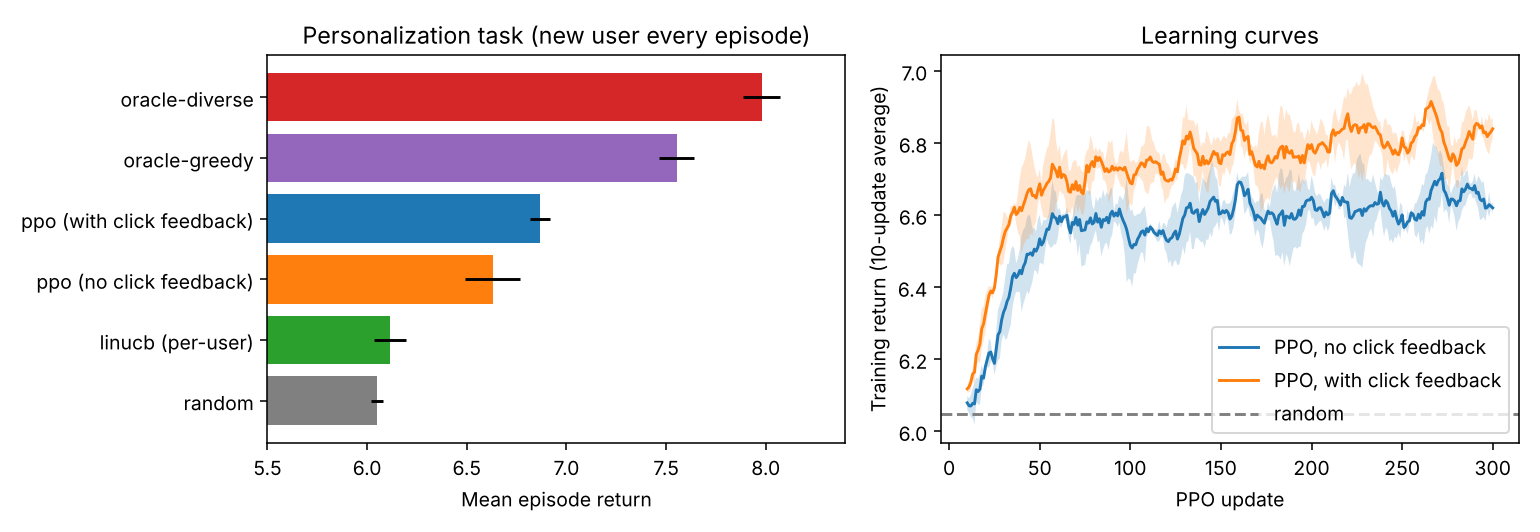
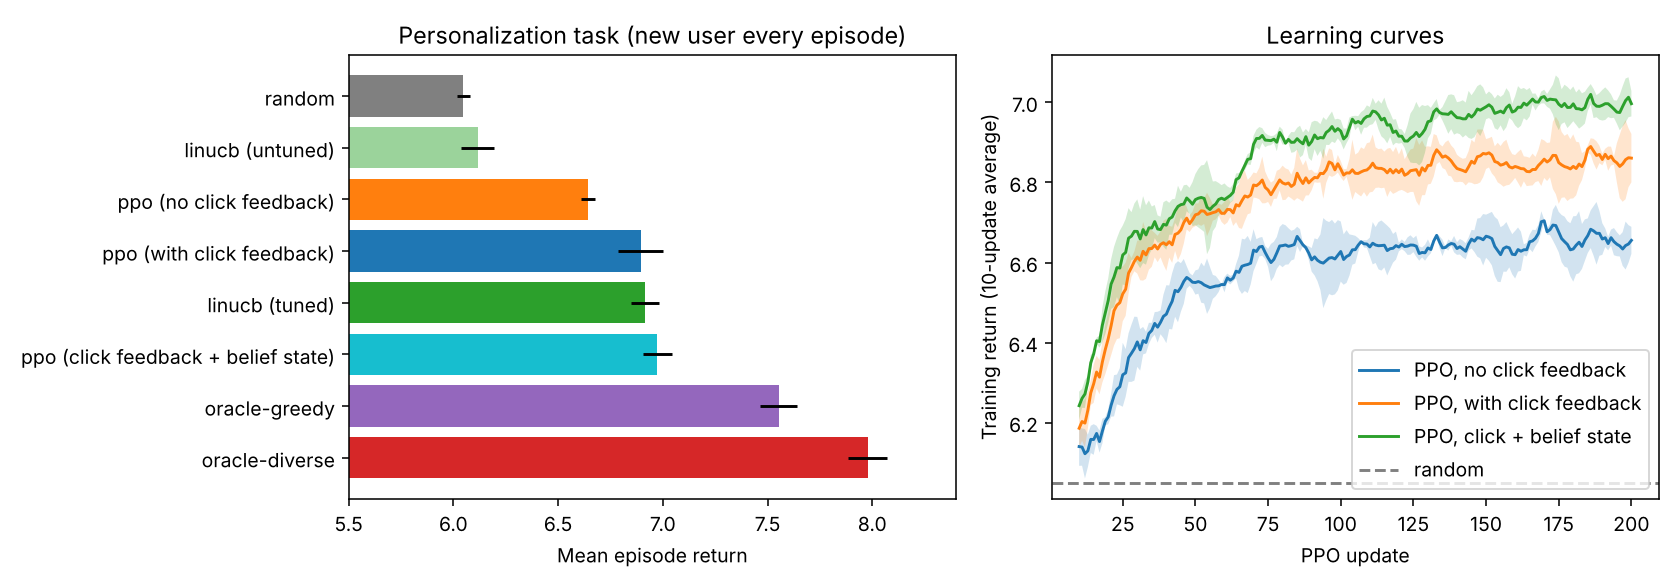
docs: correct personalization results using a tuned LinUCB baseline

Changed region(s): [[0.0, 0.0301, 0.9974, 0.9023], [0.2805, 0.9323, 0.4675, 0.9624], [0.7481, 0.9323, 0.8416, 0.9624]]

diff --git a/aggregate.py b/aggregate.py
@@ -22,40 +22,46 @@ def load(variant: str):
 def main() -> None:
     scores: dict[str, list[float]] = {}
     ctrs: dict[str, list[float]] = {}
-    for variant in ["baselines", "noclick", "click"]:
+    for variant in ["baselines", "noclick", "click", "belief"]:
         for payload in load(variant):
             for name, r in payload["results"].items():
                 scores.setdefault(name, []).append(r["return"])
                 ctrs.setdefault(name, []).append(r["ctr"])
 
-    order = ["random", "linucb (per-user)", "ppo (no click feedback)",
-             "ppo (with click feedback)", "oracle-greedy", "oracle-diverse"]
+    order = ["random", "linucb (untuned)", "ppo (no click feedback)",
+             "ppo (with click feedback)", "linucb (tuned)",
+             "ppo (click feedback + belief state)", "oracle-greedy", "oracle-diverse"]
     lines = [f"| Method | Episode return (mean ± std, {len(SEEDS)} seeds) | CTR |", "|---|---|---|"]
     for name in order:
         lines.append(f"| {name} | {np.mean(scores[name]):.3f} ± {np.std(scores[name], ddof=1):.3f} "
                      f"| {np.mean(ctrs[name]):.3f} |")
 
-    diff = np.array(scores["ppo (with click feedback)"]) - np.array(scores["ppo (no click feedback)"])
-    vs_bandit = np.array(scores["ppo (with click feedback)"]) - np.array(scores["linucb (per-user)"])
+    def paired(a_name: str, b_name: str) -> str:
+        d = np.array(scores[a_name]) - np.array(scores[b_name])
+        return (f"- {a_name} minus {b_name}: {d.mean():+.3f} ± {d.std(ddof=1):.3f} "
+                f"({a_name} wins on {int((d > 0).sum())}/{len(SEEDS)} seeds)")
+
     lines += [
         "",
-        f"Paired difference, PPO with vs. without click feedback: {diff.mean():+.3f} ± "
-        f"{diff.std(ddof=1):.3f} (with-feedback wins on {int((diff > 0).sum())}/{len(SEEDS)} seeds).",
-        f"Paired difference, PPO with click feedback vs. per-user LinUCB: {vs_bandit.mean():+.3f} ± "
-        f"{vs_bandit.std(ddof=1):.3f} (wins on {int((vs_bandit > 0).sum())}/{len(SEEDS)} seeds).",
+        "Paired differences (same evaluation users and pools per seed):",
+        paired("ppo (with click feedback)", "ppo (no click feedback)"),
+        paired("ppo (click feedback + belief state)", "ppo (with click feedback)"),
+        paired("ppo (click feedback + belief state)", "linucb (tuned)"),
+        paired("ppo (with click feedback)", "linucb (tuned)"),
     ]
     Path("docs/personalization_results.md").write_text("\n".join(lines) + "\n")
     print("\n".join(lines))
 
-    fig, ax = plt.subplots(1, 2, figsize=(11, 3.8))
+    fig, ax = plt.subplots(1, 2, figsize=(12, 4.2))
     means = [np.mean(scores[n]) for n in order]
     errs = [np.std(scores[n], ddof=1) for n in order]
-    colors = ["gray", "tab:green", "tab:orange", "tab:blue", "tab:purple", "tab:red"]
+    colors = ["gray", "#9bd39b", "tab:orange", "tab:blue", "tab:green", "tab:cyan", "tab:purple", "tab:red"]
     ax[0].barh(order, means, xerr=errs, color=colors)
     ax[0].set_xlim(5.5, 8.4)
+    ax[0].invert_yaxis()
     ax[0].set_xlabel("Mean episode return")
     ax[0].set_title("Personalization task (new user every episode)")
-    for variant, label in [("noclick", "no click feedback"), ("click", "with click feedback")]:
+    for variant, label in [("noclick", "no click feedback"), ("click", "with click feedback"), ("belief", "click + belief state")]:
         curves = np.array([p["train_curve"] for p in load(variant)])
         k = 10
         sm = np.array([np.convolve(c, np.ones(k) / k, mode="valid") for c in curves])

diff --git a/README.md b/README.md
@@ -39,7 +39,8 @@ sequential decision problem, which is exactly what RL is for.
 - [x] PPO implementation (PyTorch) and baselines (random, greedy, bandit)
 - [x] Learning curves and multi-seed comparison (5 seeds, mean ± std)
 - [x] Expose click feedback in the observation so the policy can personalize (partial success, see below)
-- [ ] Stronger baselines and more seeds for the personalization task
+- [x] Tuned LinUCB baseline and belief-state PPO variant
+- [ ] More seeds, and a longer-horizon task where RL should help more
 - [ ] Real feedback pipeline
 - [ ] LLM agents (collector, summarizer, reflector)
 - [ ] GitHub Actions daily run
@@ -99,49 +100,70 @@ sequential effect, but it is a user-agnostic one.
 - The follow-up experiment below adds click feedback to the observation.
 - These results were produced with the code at tag `v0.1-no-click-feedback`.
 
-## Personalization experiment (click feedback)
+## Personalization experiment
 
 ![Personalization results](docs/personalization.png)
 
-To test real personalization, every episode now uses a **brand-new simulated
-user** and a longer slate of 10 items, so a policy cannot memorize one user.
-The observation includes summaries of the items clicked and skipped earlier in
-the episode (`click_feedback=True`). The "no click feedback" ablation removes
-exactly that information.
+To test real personalization, every episode uses a **brand-new simulated user**
+and a slate of 10 items, so a policy cannot memorize one user. Three PPO
+variants differ only in what they observe:
+
+- **no click feedback**: sees only which items were shown
+- **click feedback**: also sees summaries of clicked and skipped items
+- **click feedback + belief state**: also sees a running ridge-regression
+  estimate of the user's interest (clicks = +1, skips = -1)
+
+The per-user LinUCB baseline was tuned on separate validation seeds (100-102,
+never the evaluation seeds) over three rounds of grid search until the optimum
+was interior (`alpha=2.0, reg=0.1`, skips counted as negative evidence; see
+`tune_linucb.py`). An untuned version is shown for reference.
 
 | Method | Episode return (mean ± std, 3 seeds) | CTR |
 |---|---|---|
 | random | 6.048 ± 0.029 | 0.401 |
-| linucb (per-user) | 6.116 ± 0.080 | 0.445 |
-| ppo (no click feedback) | 6.630 ± 0.138 | 0.429 |
-| ppo (with click feedback) | 6.866 ± 0.051 | 0.460 |
+| linucb (untuned) | 6.116 ± 0.080 | 0.445 |
+| ppo (no click feedback) | 6.642 ± 0.034 | 0.428 |
+| ppo (with click feedback) | 6.894 ± 0.109 | 0.467 |
+| linucb (tuned) | 6.915 ± 0.065 | 0.468 |
+| ppo (click feedback + belief state) | 6.974 ± 0.069 | 0.468 |
 | oracle-greedy | 7.554 ± 0.088 | 0.597 |
 | oracle-diverse | 7.979 ± 0.093 | 0.614 |
 
-Paired difference, PPO with vs. without click feedback: +0.236 ± 0.093 (with-feedback wins on 3/3 seeds).
-Paired difference, PPO with click feedback vs. per-user LinUCB: +0.751 ± 0.054 (wins on 3/3 seeds).
+Paired differences (same evaluation users and pools per seed):
+- ppo (with click feedback) minus ppo (no click feedback): +0.252 ± 0.075 (ppo (with click feedback) wins on 3/3 seeds)
+- ppo (click feedback + belief state) minus ppo (with click feedback): +0.080 ± 0.056 (ppo (click feedback + belief state) wins on 3/3 seeds)
+- ppo (click feedback + belief state) minus linucb (tuned): +0.059 ± 0.069 (ppo (click feedback + belief state) wins on 2/3 seeds)
+- ppo (with click feedback) minus linucb (tuned): -0.021 ± 0.067 (ppo (with click feedback) wins on 1/3 seeds)
 
 Reproduce with:
 
 ```bash
-PYTHONPATH=src python personalization.py --variant baselines --seeds 0 1 2
-PYTHONPATH=src python personalization.py --variant noclick   --seeds 0 1 2
-PYTHONPATH=src python personalization.py --variant click     --seeds 0 1 2
+PYTHONPATH=src python tune_linucb.py
+for v in baselines noclick click belief; do
+  PYTHONPATH=src python personalization.py --variant $v --seeds 0 1 2
+done
 python aggregate.py
 ```
 
 **Reading these results honestly**
 
-- Click feedback helps: PPO improves by about +0.24 return on all 3 seeds, which
-  supports the claim that it learns some personalization from in-episode clicks.
-- It is only **partial**. PPO closes roughly 40% of the gap between random and
-  the oracle-diverse reference, and its CTR (0.46) is far below the oracles (0.60).
-- Without click feedback PPO still beats random, which matches the earlier
-  finding that part of the gain is a user-agnostic diversity strategy.
-- The per-user LinUCB baseline barely beats random. With only 10 interactions per
-  user and default hyperparameters it is probably under-tuned, so the PPO vs.
-  LinUCB gap should not be over-interpreted. Tuning it is on the roadmap.
-- Only 3 seeds, so standard deviations are rough.
+- Click feedback clearly helps PPO (+0.25 return, 3/3 seeds), so the agent does
+  learn some personalization from in-episode clicks.
+- **A properly tuned bandit matches PPO.** PPO with the belief state is +0.06
+  over tuned LinUCB, with a standard deviation of 0.07 over 3 seeds, which is
+  not a meaningful difference. An earlier version of this README reported a large
+  PPO advantage over LinUCB; that came from comparing against an untuned
+  baseline (6.12) and has been removed.
+- The belief state adds a small gain (+0.08, within noise at 3 seeds).
+- Both PPO and tuned LinUCB are still far from the oracles (CTR 0.47 vs 0.60),
+  so most of the personalization gap is not yet closed. The oracles know the
+  true interest, so they are references, not fair competitors.
+- Only 3 seeds, one simulator, and 10 interactions per user.
+
+**Where this leaves the RL claim:** in this simulator, the sequential structure
+matters mostly through diversity and boredom, and a tuned contextual bandit
+captures most of the achievable gain with very little data. A fairer test of RL's
+advantage needs longer horizons, where today's choices change later states more.
 
 ## Running the tests
 

diff --git a/docs/personalization_results.md b/docs/personalization_results.md
@@ -1,11 +1,16 @@
 | Method | Episode return (mean ± std, 3 seeds) | CTR |
 |---|---|---|
 | random | 6.048 ± 0.029 | 0.401 |
-| linucb (per-user) | 6.116 ± 0.080 | 0.445 |
-| ppo (no click feedback) | 6.630 ± 0.138 | 0.429 |
-| ppo (with click feedback) | 6.866 ± 0.051 | 0.460 |
+| linucb (untuned) | 6.116 ± 0.080 | 0.445 |
+| ppo (no click feedback) | 6.642 ± 0.034 | 0.428 |
+| ppo (with click feedback) | 6.894 ± 0.109 | 0.467 |
+| linucb (tuned) | 6.915 ± 0.065 | 0.468 |
+| ppo (click feedback + belief state) | 6.974 ± 0.069 | 0.468 |
 | oracle-greedy | 7.554 ± 0.088 | 0.597 |
 | oracle-diverse | 7.979 ± 0.093 | 0.614 |
 
-Paired difference, PPO with vs. without click feedback: +0.236 ± 0.093 (with-feedback wins on 3/3 seeds).
-Paired difference, PPO with click feedback vs. per-user LinUCB: +0.751 ± 0.054 (wins on 3/3 seeds).
+Paired differences (same evaluation users and pools per seed):
+- ppo (with click feedback) minus ppo (no click feedback): +0.252 ± 0.075 (ppo (with click feedback) wins on 3/3 seeds)
+- ppo (click feedback + belief state) minus ppo (with click feedback): +0.080 ± 0.056 (ppo (click feedback + belief state) wins on 3/3 seeds)
+- ppo (click feedback + belief state) minus linucb (tuned): +0.059 ± 0.069 (ppo (click feedback + belief state) wins on 2/3 seeds)
+- ppo (with click feedback) minus linucb (tuned): -0.021 ± 0.067 (ppo (with click feedback) wins on 1/3 seeds)

diff --git a/docs/linucb_tuning.md b/docs/linucb_tuning.md
@@ -1,0 +1,17 @@
+| alpha | reg | signed reward | validation return |
+|---|---|---|---|
+| 2.0 | 0.1 | True | 7.035 |
+| 3.0 | 0.1 | True | 7.012 |
+| 5.0 | 0.2 | True | 7.009 |
+| 2.0 | 0.05 | True | 7.006 |
+| 3.0 | 0.2 | True | 7.001 |
+| 2.0 | 0.2 | True | 6.948 |
+| 3.0 | 0.05 | True | 6.932 |
+| 1.0 | 0.05 | True | 6.927 |
+| 1.0 | 0.1 | True | 6.924 |
+| 1.0 | 0.2 | True | 6.904 |
+| 5.0 | 0.1 | True | 6.842 |
+| 8.0 | 0.1 | True | 6.837 |
+| 8.0 | 0.05 | True | 6.821 |
+| 5.0 | 0.05 | True | 6.812 |
+| 8.0 | 0.2 | True | 6.778 |
